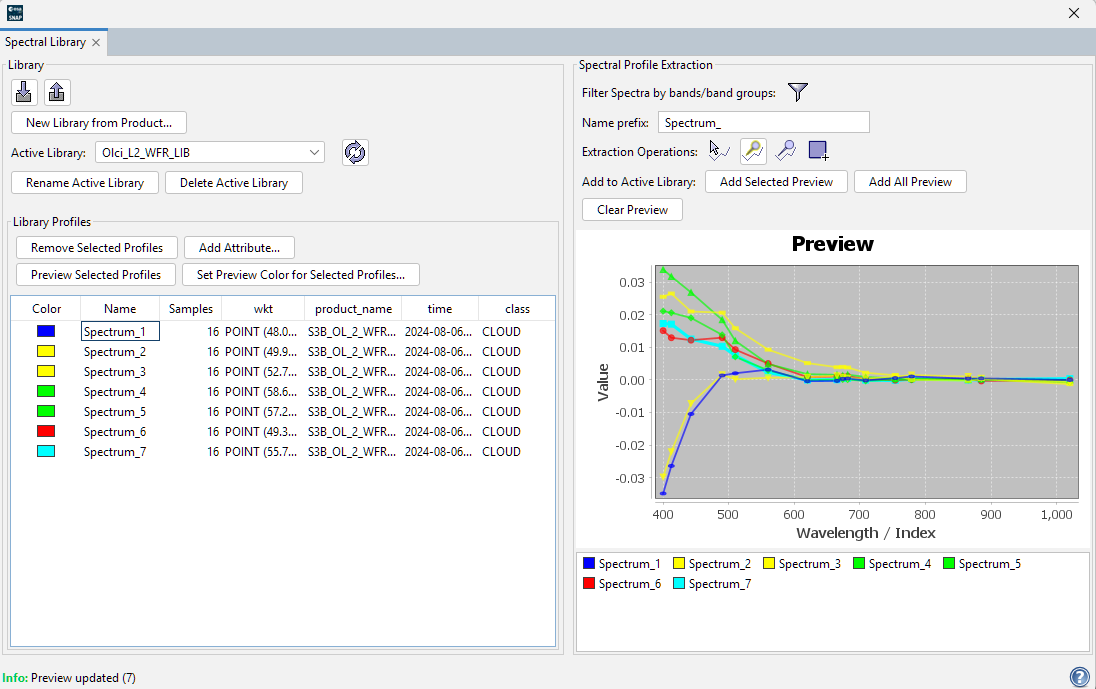
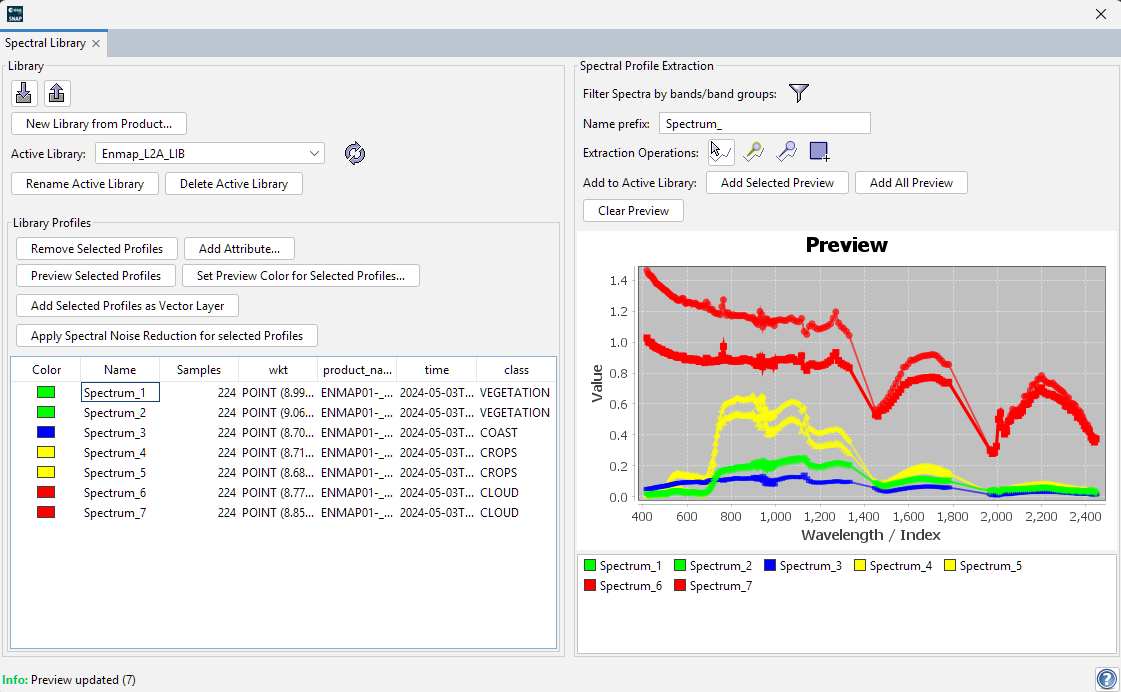
updated help

diff --git a/snap-help/src/main/resources/org/esa/snap/snap/help/docs/desktop/SpectralLibrary.html b/snap-help/src/main/resources/org/esa/snap/snap/help/docs/desktop/SpectralLibrary.html
@@ -43,7 +43,7 @@
     </p>
     <ul>
         <li>
-            <b>Library</b> - manages spectral libraries and stored profiles (add/remove/rename, attributes, import/export).
+            <b>Library</b> - manages spectral libraries and stored profiles (add/remove/rename, attributes, import/export, spectral noise reduction).
         </li>
         <li>
             <b>Spectral Profile Extraction</b> - extracts and previews spectral profiles
@@ -71,6 +71,14 @@
             <b>Manage stored profiles</b><br> All profiles contained in the active library are listed in
             the profiles table. Selected entries can be removed from the active library and
             can be previewed in the chart.
+        </li>
+        <li>
+            <b>Reduce spectral noise for stored profiles</b><br>
+            Select one or more profiles in the table and use
+            <b>Apply Spectral Noise Reduction for selected Profiles</b>.
+            A dialog opens where the filter method and its parameters can be configured.
+            The smoothed profiles can either be stored in the current active library or in a newly created library.
+            New profile names are created by appending a suffix such as <code>_smoothed</code>.
         </li>
         <li>
             <b>Create a vector layer from stored profile coordinates</b><br>
